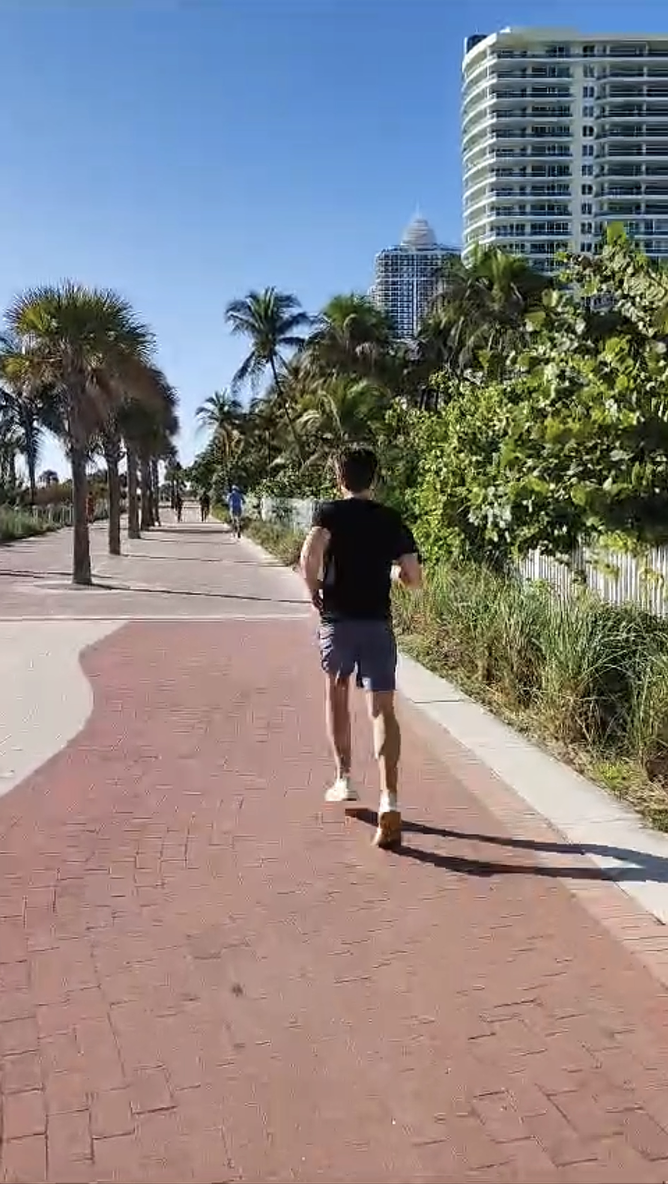
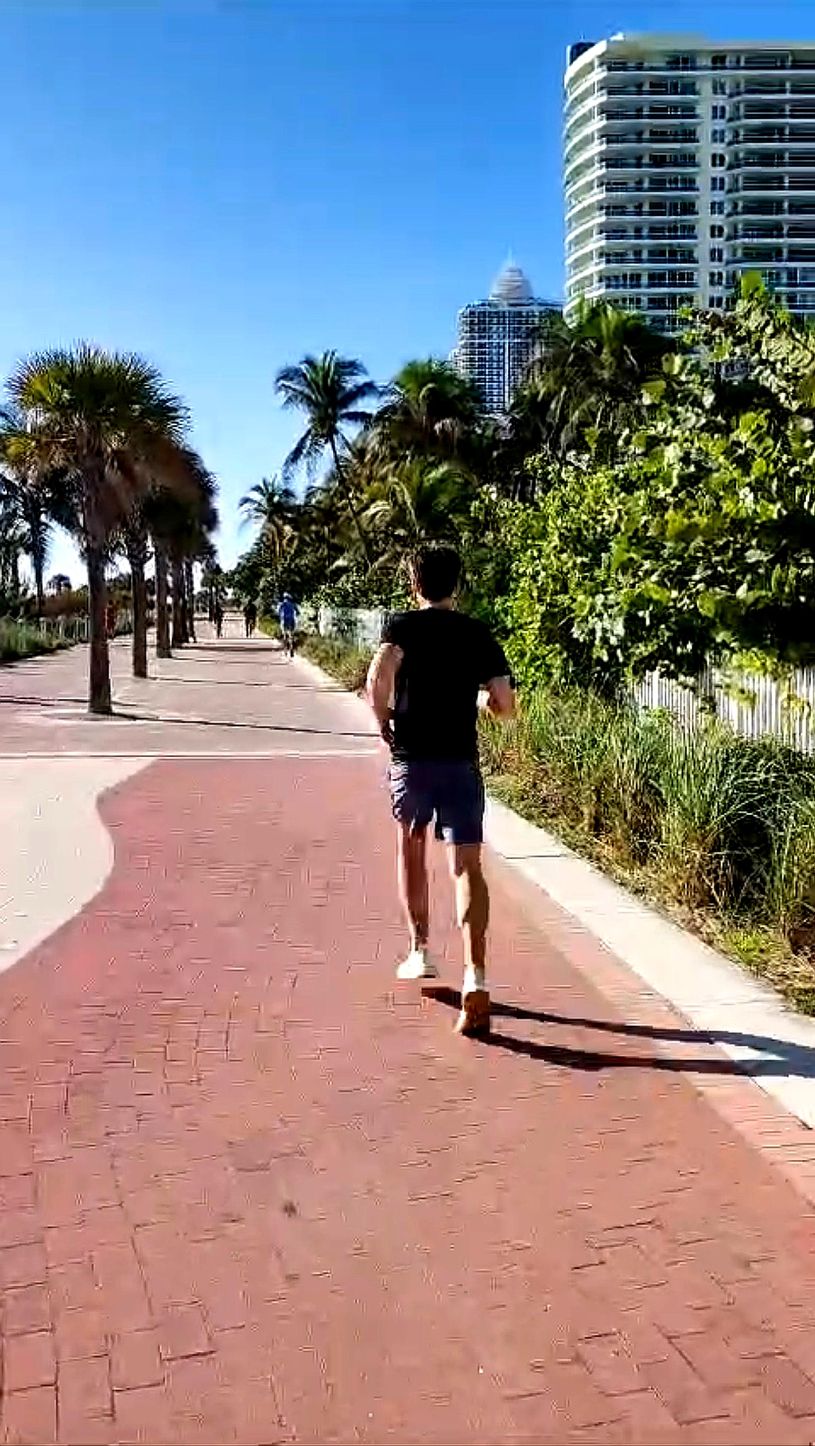
added image

diff --git a/index.html b/index.html
@@ -147,6 +147,14 @@
                         </figure>
 
                         <figure class="swiper-slide">
+                            <div class="cardPopout" data-swiper-parallax="30" data-swiper-parallax-scale="0.9" data-swiper-parallax-opacity="0.8" data-swiper-parallax-duration="1000">
+                                <img src="./data/about_img/running.jpg" alt="jellyfish" width="800" height="400" data-swiper-parallax="80" data-swiper-parallax-duration="2000">
+                                <h2 class="title" data-swiper-parallax="80" data-swiper-parallax-duration="1000">Running</h2>
+                                <h4 class="subtitle" data-swiper-parallax="80" data-swiper-parallax-duration="1500">Miami, Florida</h4>
+                            </div>
+                        </figure>
+
+                        <figure class="swiper-slide">
                         <div class="cardPopout" data-swiper-parallax="30" data-swiper-parallax-scale="0.9" data-swiper-parallax-opacity="0.8" data-swiper-parallax-duration="1000">
                             <img src="./data/about_img/mar_a_lago.JPG" alt="jellyfish" width="800" height="400" data-swiper-parallax="80" data-swiper-parallax-duration="2000">
                             <h2 class="title" data-swiper-parallax="80" data-swiper-parallax-duration="1000">Mar-a-Lago Club</h2>
